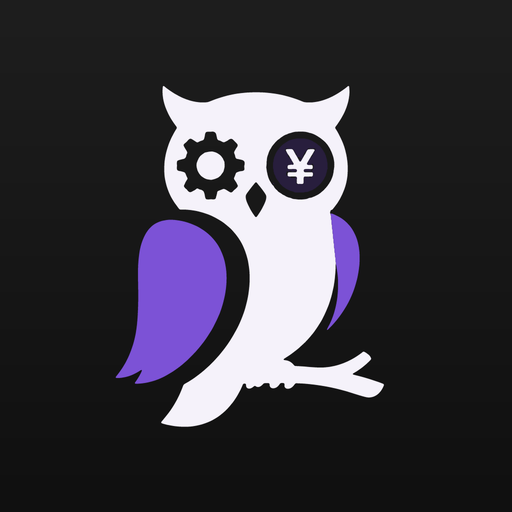
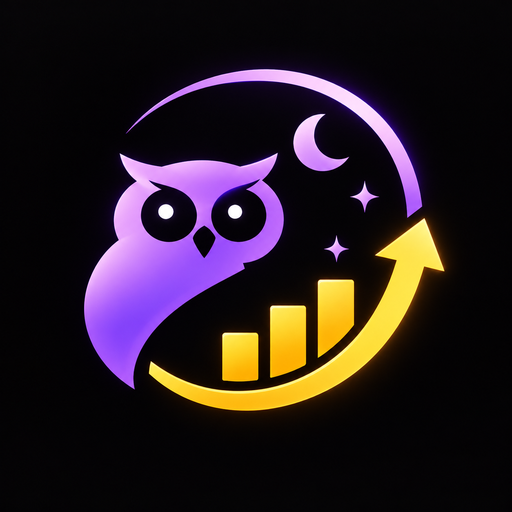
フクリのアイコンを新しいデザインに変更
Claude-Session: https://claude.ai/code/session_018AqJERWC1s4hhn7m3mm7wf

diff --git a/index.html b/index.html
@@ -12,8 +12,8 @@
 <meta name="apple-mobile-web-app-status-bar-style" content="black">
 <meta name="apple-mobile-web-app-title" content="フクリ">
 <meta name="theme-color" content="#070908">
-<link rel="apple-touch-icon" href="apple-touch-icon.png?v=9">
-<link rel="icon" href="icon-192.png?v=9">
+<link rel="apple-touch-icon" href="apple-touch-icon.png?v=10">
+<link rel="icon" href="icon-192.png?v=10">
 <link rel="manifest" href="manifest.webmanifest?v=3">
 <style>
 :root{
@@ -448,7 +448,7 @@ body[data-tab=pl] main,body[data-tab=fx] main{overflow:hidden!important}
 <body>
 <div class="sky"><i></i><i></i><i></i></div>
 <div class="fadeT"></div><div class="fadeB"></div>
-<div class="gate glass" id="gate"><div><img src="icon-512.png?v=9" alt=""><h2>フクリ</h2><p class="cap" id="gmsg">合い鍵の入ったリンクから開いてください。<br>自分専用のアプリです。</p><div id="gbtn"></div></div></div>
+<div class="gate glass" id="gate"><div><img src="icon-512.png?v=10" alt=""><h2>フクリ</h2><p class="cap" id="gmsg">合い鍵の入ったリンクから開いてください。<br>自分専用のアプリです。</p><div id="gbtn"></div></div></div>
 <div class="toast glass" id="toast"></div>
 <main id="main">
   <section class="page on" id="p-todo"></section>
